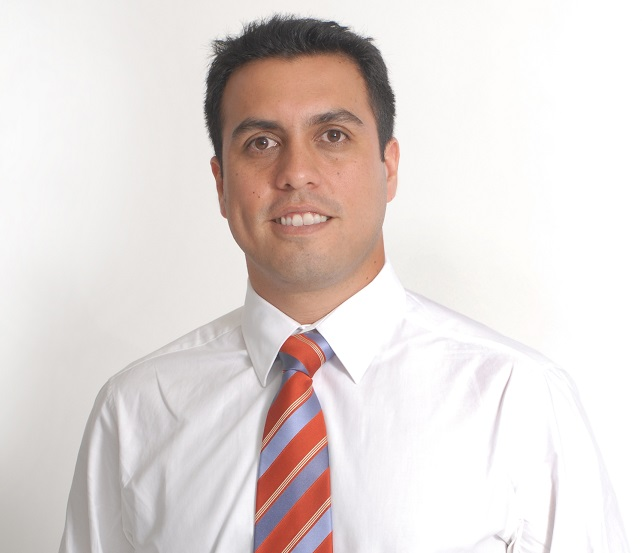
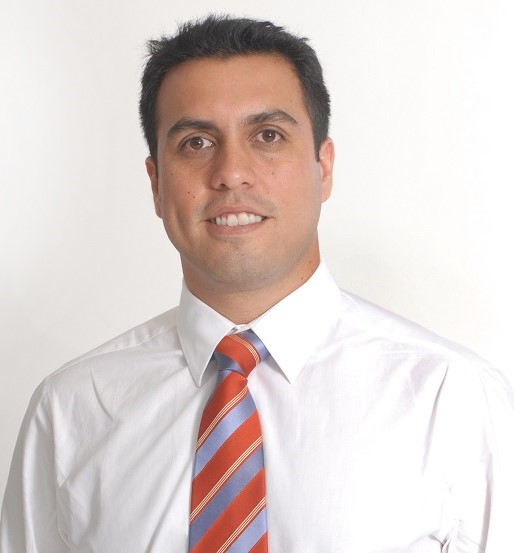
Line Up

diff --git a/o_templates/default/css/descripcion.css b/o_templates/default/css/descripcion.css
@@ -262,54 +262,77 @@ table.table-special {
   border-top: 43.30px solid #64C7CC;
 }
 
-/*hexagono foto*/
-.hexaHolder{
-    height: 115px;
-    width: 99px;
-    float: left;
-}
-.hexa img{
-    width:100%;
-    margin-top: -5px;
-    background-color: #E9DDC1;
-    border-style: solid;
-    border-width: 5px;
-    border-color: #E4B43B; 
-}
-.hexa, .hexa div {
-    margin: 0 auto;
-    transform-origin: 50% 50%;
-    overflow: hidden;
-}
-.hexa {
-    text-align: center;
-    margin: 0;
-    width: 350px;
-    height: 300px;    
-    opacity: 0.75;    
-}
-.hexa div {
-  width: 100%;
-  height: 100%;
-}
-.hexa {
-  transform: rotate(120deg);
-}
-.hex1 {
-  transform: rotate(-60deg);
-}
-.hex2 {
-  transform: rotate(-60deg);
+/*hexagono foto */
+.hexagono {
+  position: relative;
+  width: 300px; 
+  height: 173.21px;
+  margin: 86.60px 0;
+  background-image: url(o_templates/default/img/javier-pezua.jpg);
+  background-size: auto 334.8632px;
+  background-position: center;
+  border-left: solid 5px #E4B43B;
+  border-right: solid 5px #E4B43B;
+  transform: rotate(90deg);
 }
 
-.hex-row {
-    clear: left;
+.hexTop,
+.hexBottom {
+  position: absolute;
+  z-index: 1;
+  width: 212.13px;
+  height: 212.13px;
+  overflow: hidden;
+  -webkit-transform: scaleY(0.5774) rotate(-45deg);
+  -ms-transform: scaleY(0.5774) rotate(-45deg);
+  transform: scaleY(0.5774) rotate(-45deg);
+  background: inherit;
+  left: 38.93px;
 }
 
-.hexaHolder.even {
-    margin-top: 57.5px; 
+/*counter transform the bg image on the caps*/
+.hexTop:after,
+.hexBottom:after {
+  content: "";
+  position: absolute;
+  width: 290.0000px;
+  height: 167.4315780649915px;
+  -webkit-transform:  rotate(45deg) scaleY(1.7321) translateY(-83.7158px);
+  -ms-transform:      rotate(45deg) scaleY(1.7321) translateY(-83.7158px);
+  transform:          rotate(45deg) scaleY(1.7321) translateY(-83.7158px);
+  -webkit-transform-origin: 0 0;
+  -ms-transform-origin: 0 0;
+  transform-origin: 0 0;
+  background: inherit;
 }
 
-#wrap {
-    min-width:600px;        
+.hexTop {
+  top: -106.0660px;
+  border-top: solid 7.0711px #E4B43B;
+  border-right: solid 7.0711px #E4B43B;
+}
+
+.hexTop:after {
+  background-position: center top;
+}
+
+.hexBottom {
+  bottom: -106.0660px;
+  border-bottom: solid 7.0711px #E4B43B;
+  border-left: solid 7.0711px #E4B43B;
+}
+
+.hexBottom:after {
+  background-position: center bottom;
+}
+
+.hexagono:after {
+  content: "";
+  position: absolute;
+  top: 2.8868px;
+  left: 0;
+  width: 290.0000px;
+  height: 167.4316px;
+  z-index: 2;
+  background: inherit;
 }

diff --git a/index.html b/index.html
@@ -292,18 +292,9 @@
           </div>          
           <div>
             <div class="col-md-4">
-              <div id="wrap">
-                <div class="hex-row">
-                  <a class='hexaHolder'>
-                    <div class="hexa">
-                      <div class="hex1">
-                        <div class="hex2">
-                          <img src="o_templates/default/img/javier-pezua.jpg" alt="Javier Peszúa" />
-                        </div>
-                      </div>
-                    </div>
-                  </a>
-                </div>
+              <div class="hexagono">
+                <div class="hexTop"></div>
+                <div class="hexBottom"></div>
               </div>
             </div>
           </div>
